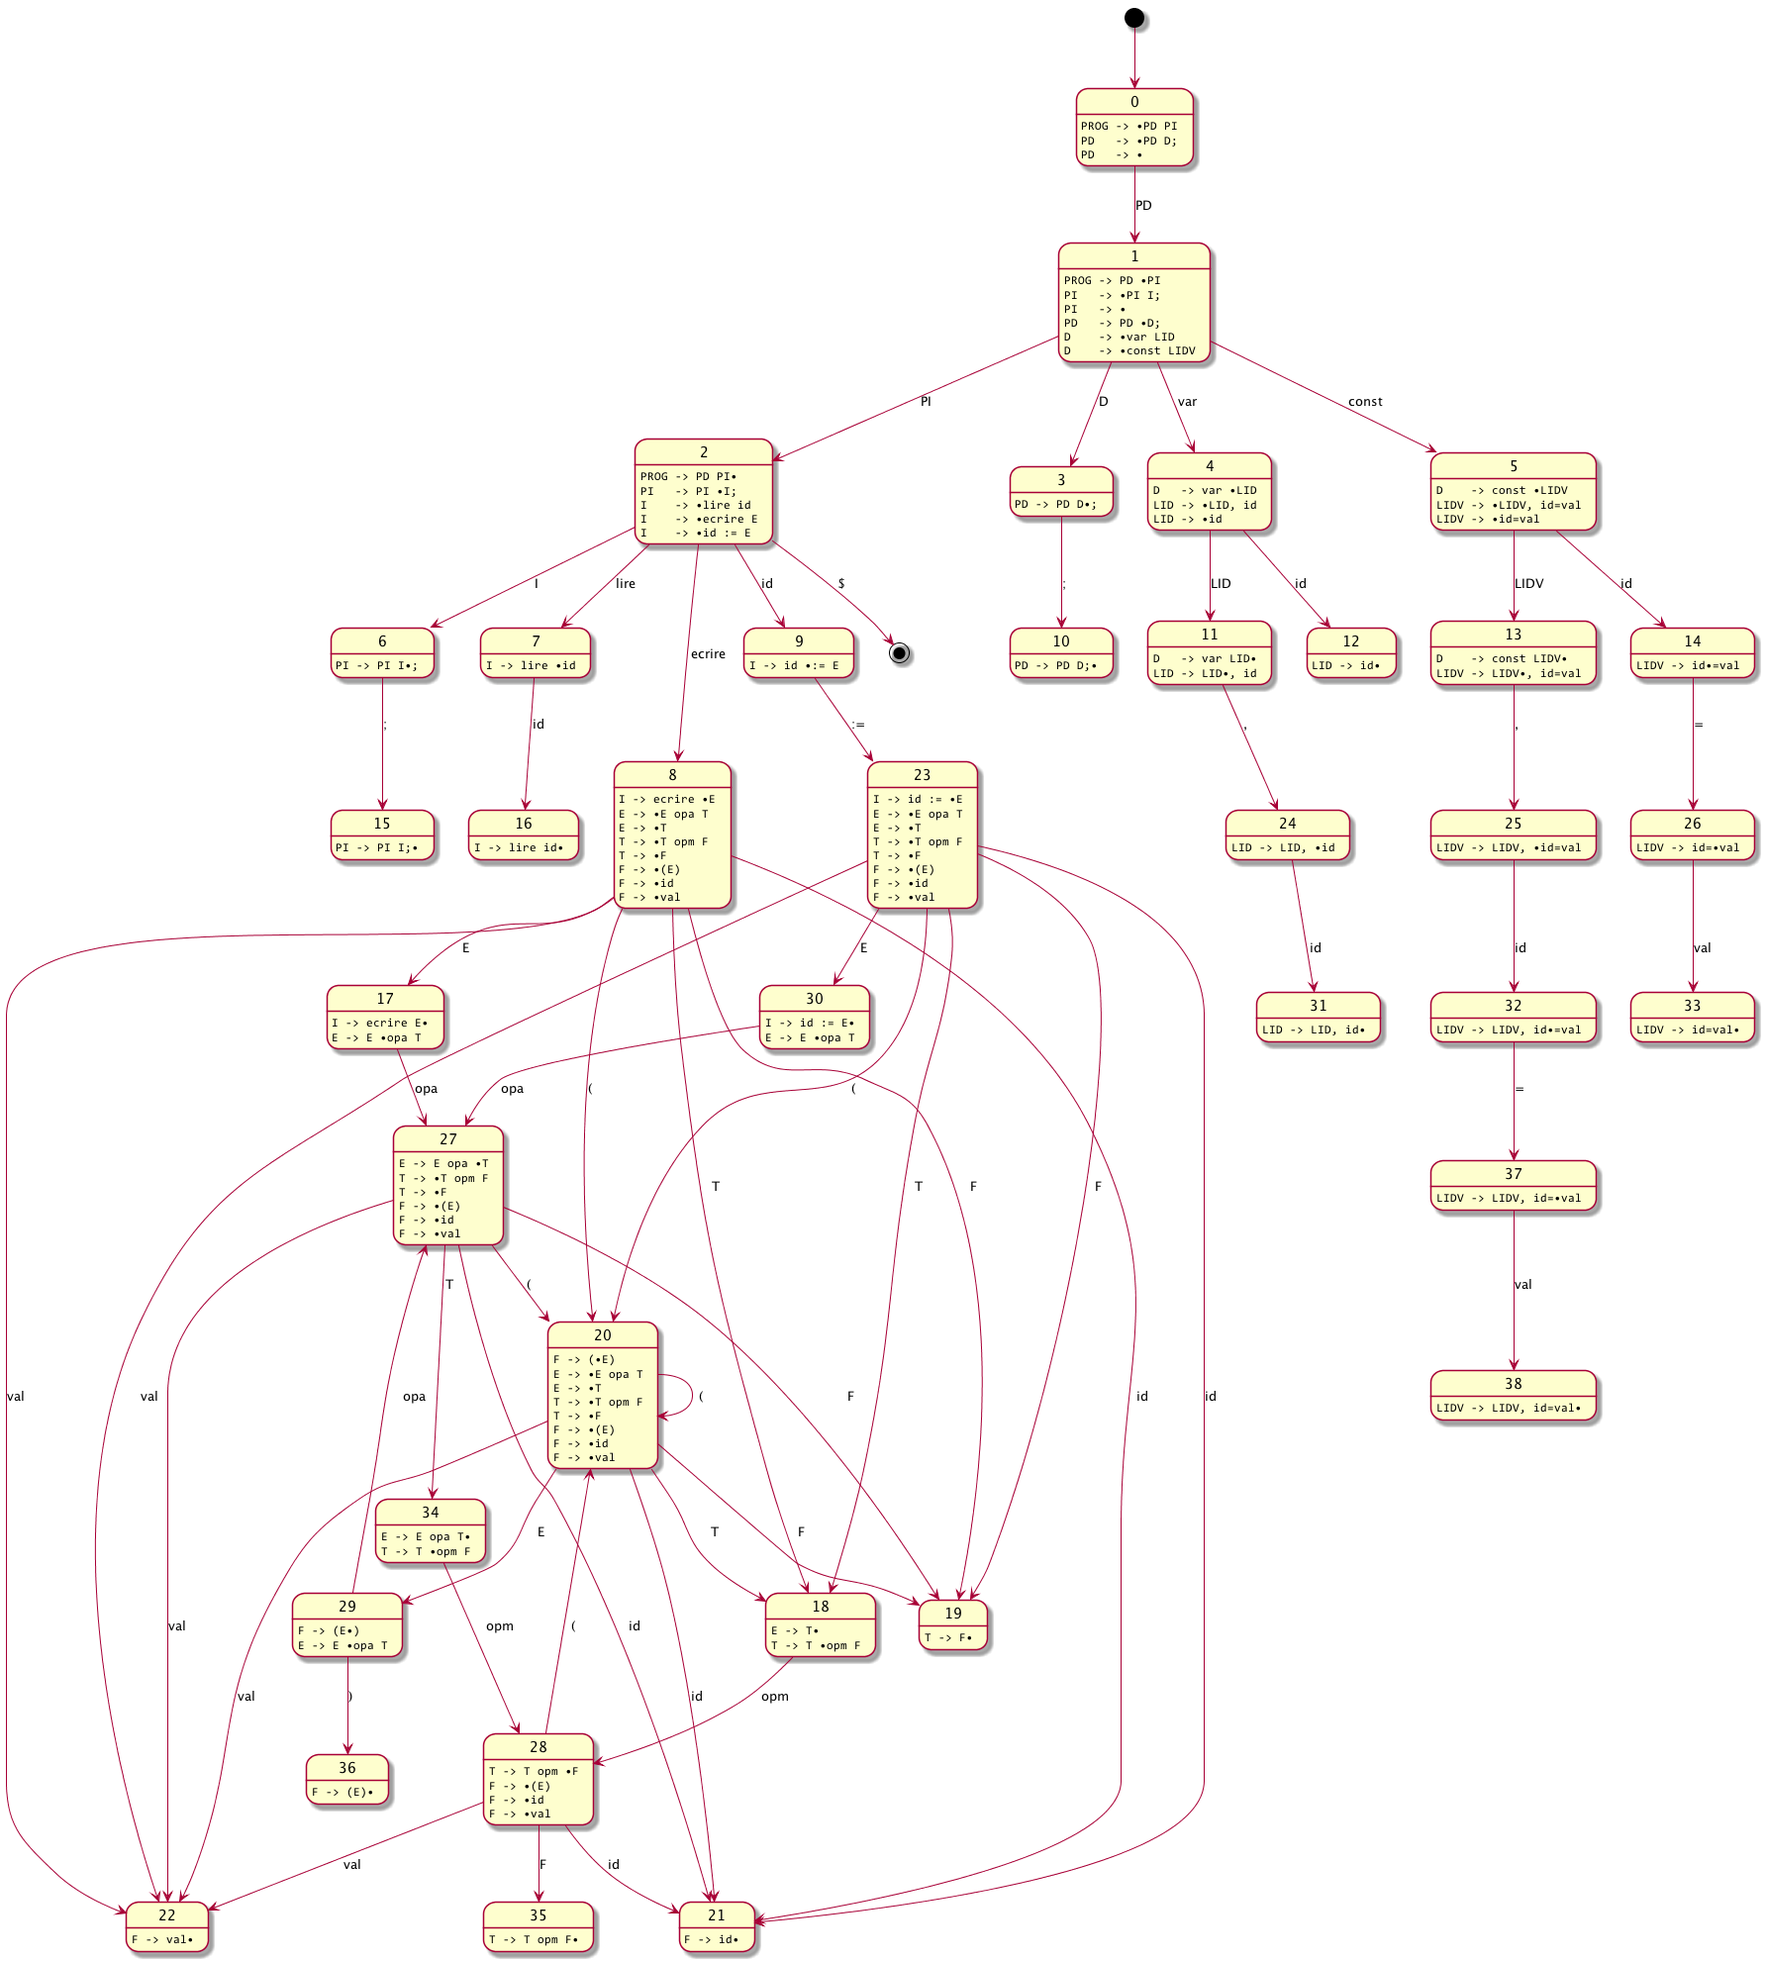
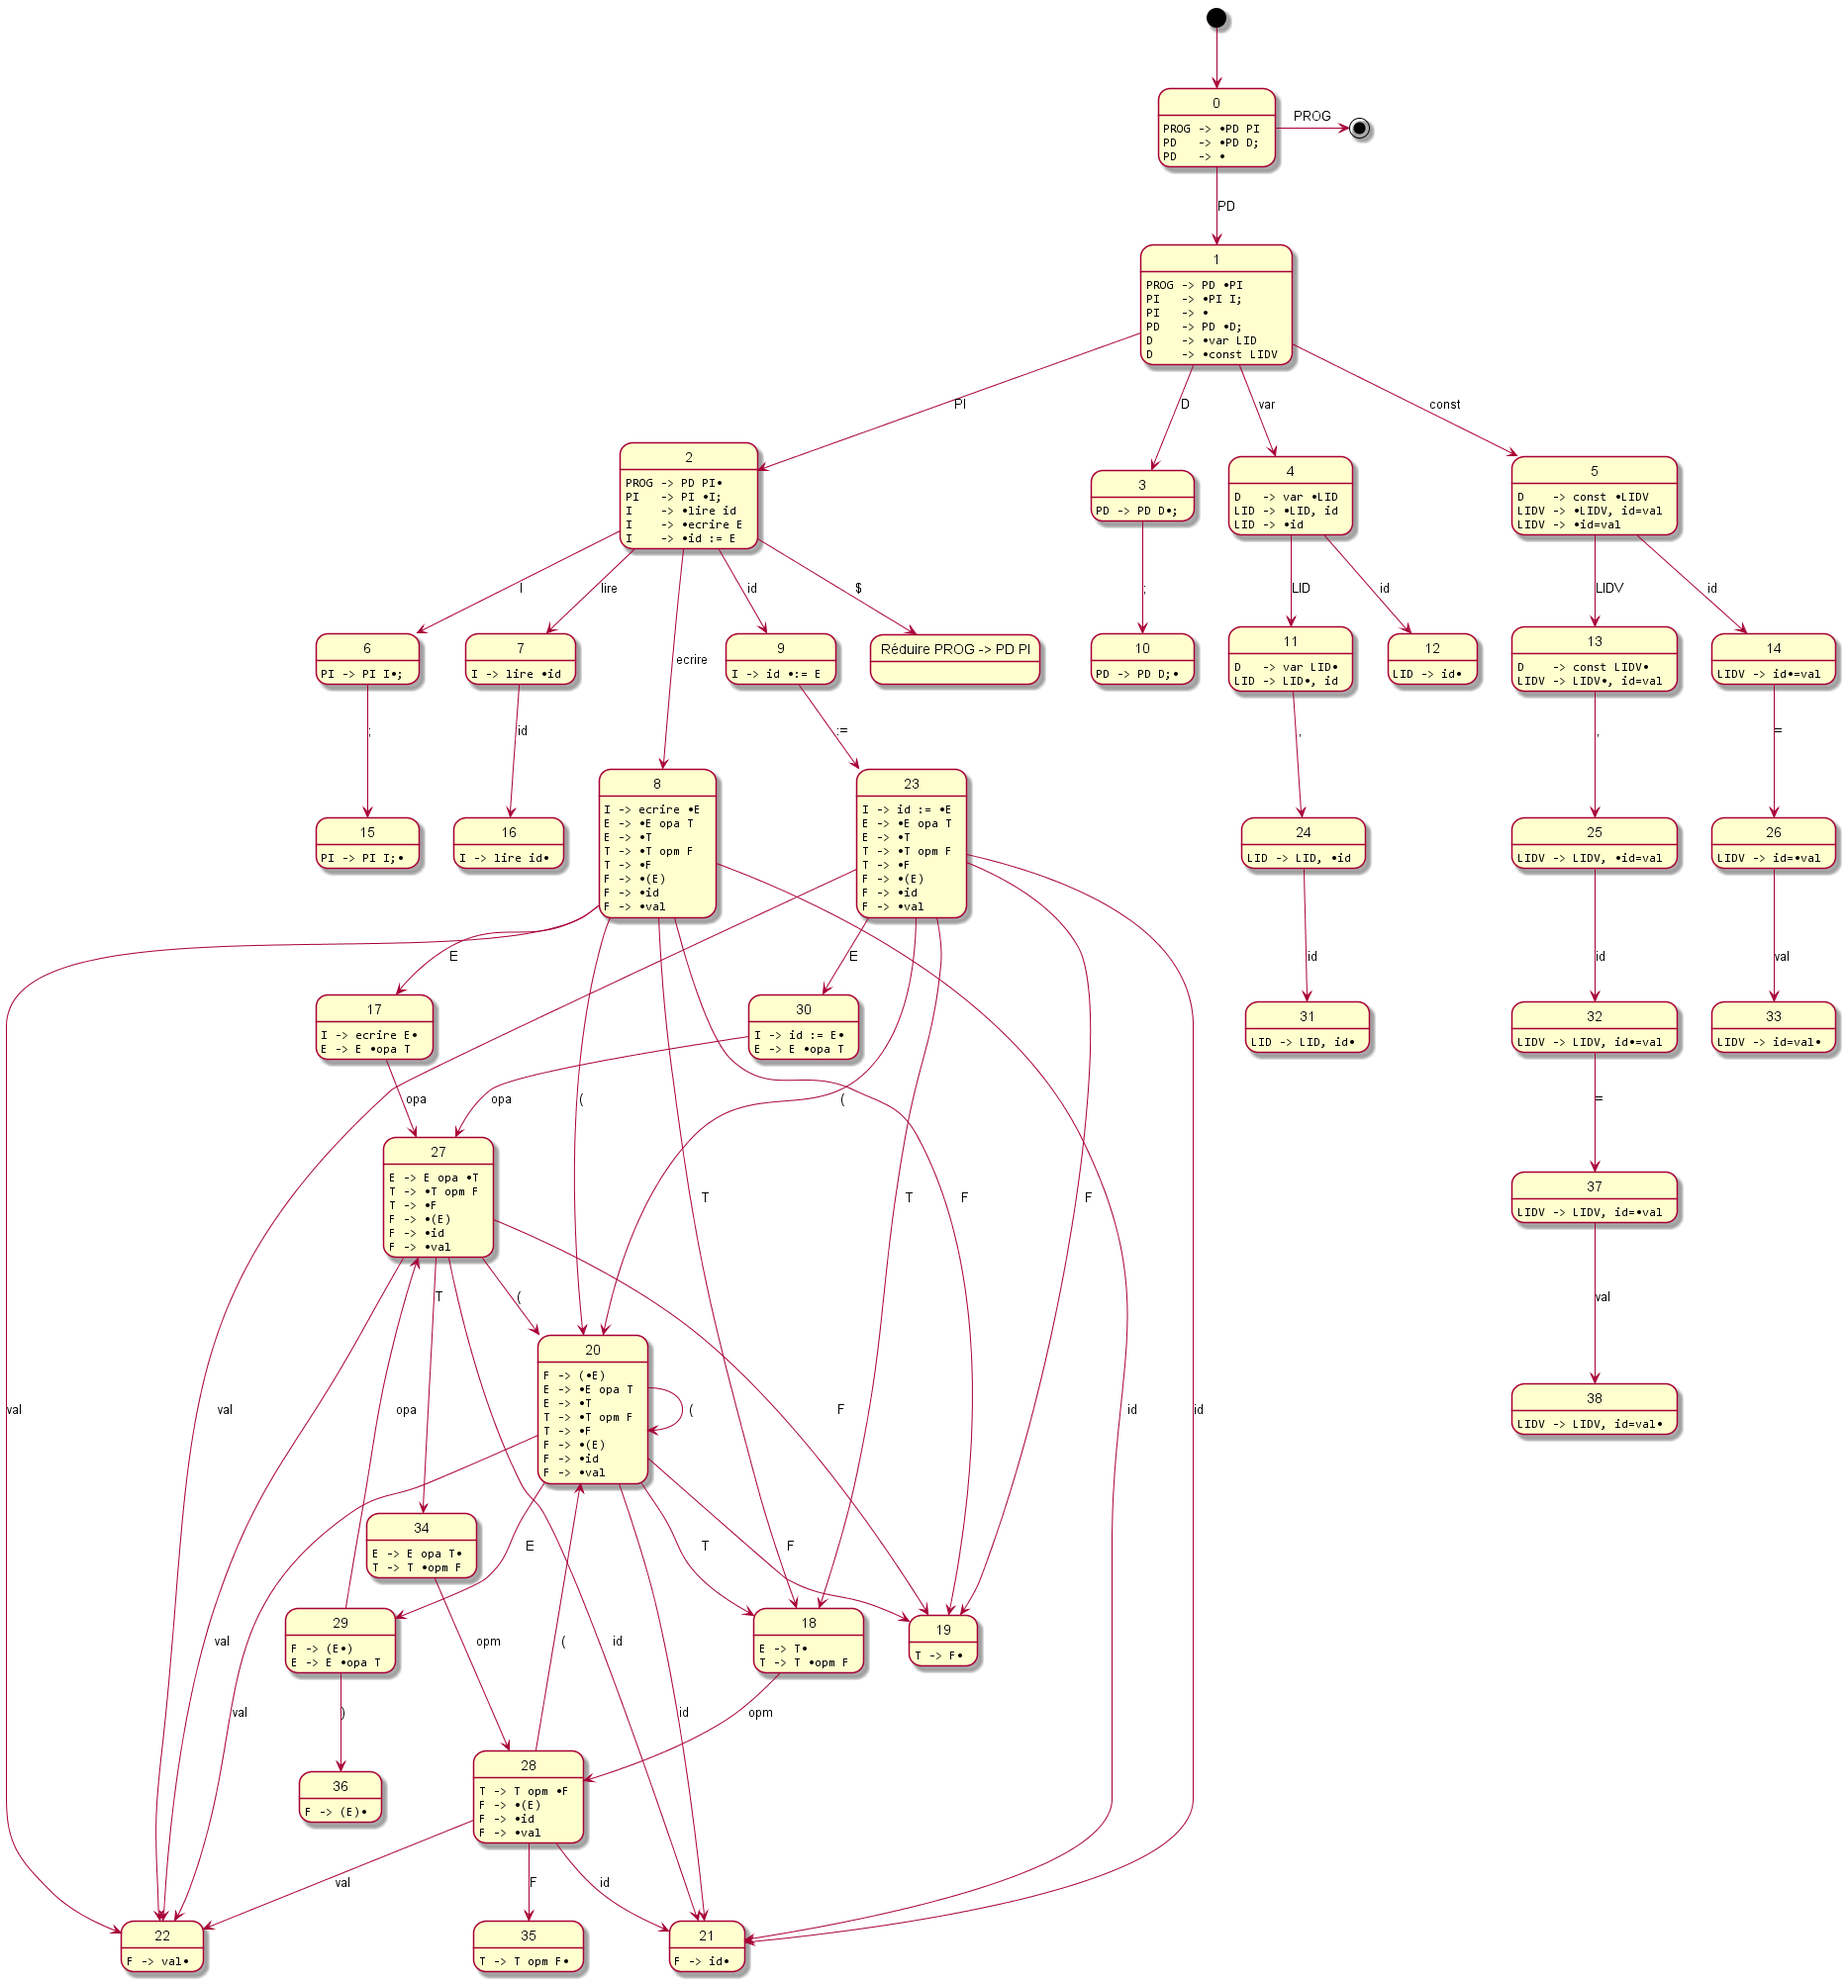
Correction de l'automate pour l'acceptation (état 0 et non état 2)

diff --git a/src/etats/E2.cpp b/src/etats/E2.cpp
@@ -20,6 +20,11 @@ using namespace std;
 #include "E9.h"
 #include "E6.h"
 
+#include "../symboles/Programme.h"
+#include "../symboles/PartieDeclarative.h"
+#include "../symboles/PartieInstructions.h"
+
+
 //------------------------------------------------------------- Constantes
 
 //---------------------------------------------------- Variables de classe
@@ -57,7 +62,17 @@ bool E2::Transition ( Automate & automate, Symbole * s )
 		}
 		case FIN:
 		{
-			//TODO A
+			PartieInstructions * pi = (PartieInstructions *) automate.PopSymbole();
+			PartieDeclarative * pd = (PartieDeclarative *) automate.PopSymbole();
+			
+			Programme * prog = new Programme(pd->GetDeclarations(), pi->GetInstructions());
+			
+			delete pi;
+			delete pd;
+			
+			//réduire R0
+			automate.Reduction(prog, 2);
+			
 			return true;
 		}
 		case I:

diff --git a/src/symboles/PartieDeclarative.h b/src/symboles/PartieDeclarative.h
@@ -39,6 +39,13 @@ public:
 	//	Renvoie true si aucun identifiant n'a été dupliqué, sinon false.
 	// Contrat :
 	//	Aucun
+	
+	map< string, Declaration * > GetDeclarations ( );
+	// Mode d'emploi :
+	//	Permet d'obtenir la table des déclarations ajoutées à cette
+	//	partie déclarative.
+	// Contrat :
+	//	Aucuns
 
 //------------------------------------------------- Surcharge d'opérateurs
 

diff --git a/src/symboles/PartieDeclarative.cpp b/src/symboles/PartieDeclarative.cpp
@@ -48,6 +48,11 @@ bool PartieDeclarative::AjouterDeclarations( ListeDeclaration * liste )
 	return true;
 }
 
+map< string, Declaration * > PartieDeclarative::GetDeclarations ( )
+{
+	return tableDeclarations;
+}
+
 //------------------------------------------------- Surcharge d'opérateurs
 
 //-------------------------------------------- Constructeurs - destructeur

diff --git a/src/etats/E0.cpp b/src/etats/E0.cpp
@@ -48,6 +48,9 @@ bool E0::Transition ( Automate & automate, Symbole * s )
 			automate.Reduction(new PartieDeclarative, 0);
 			return true;
 		}
+		case PROG:
+			//acceptation : ne rien faire
+			return true;
 		case PD:
 		{
 			automate.Decalage(s, new E1);
